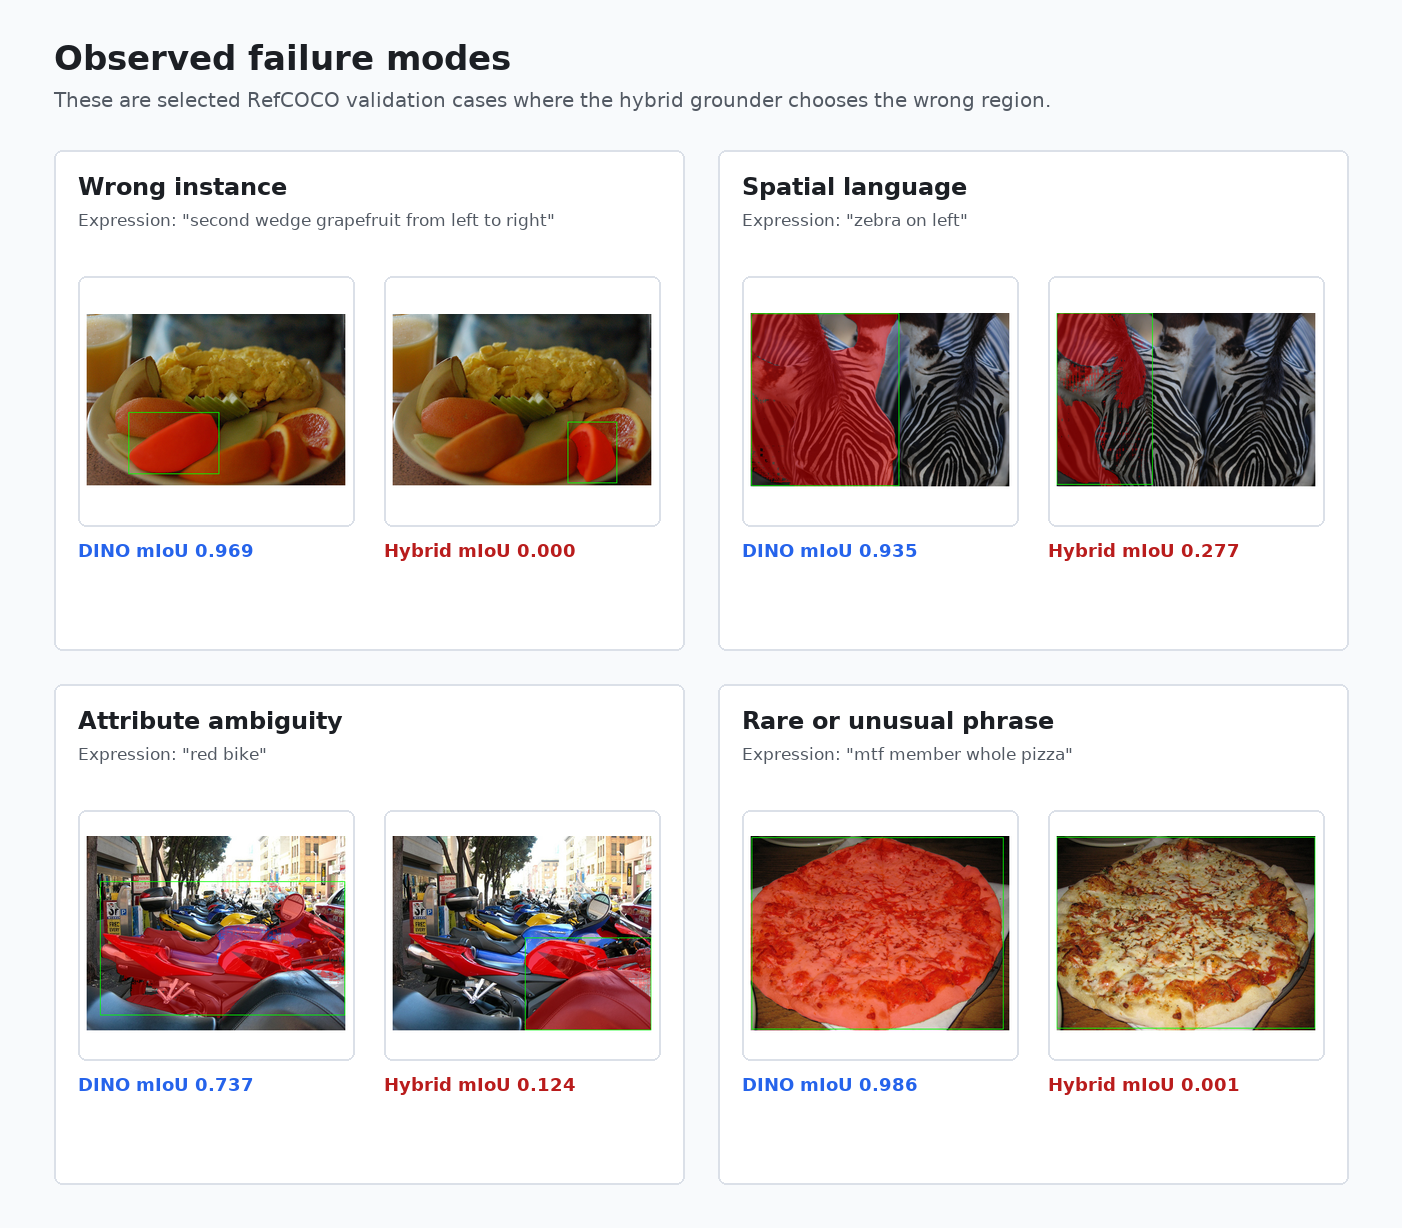
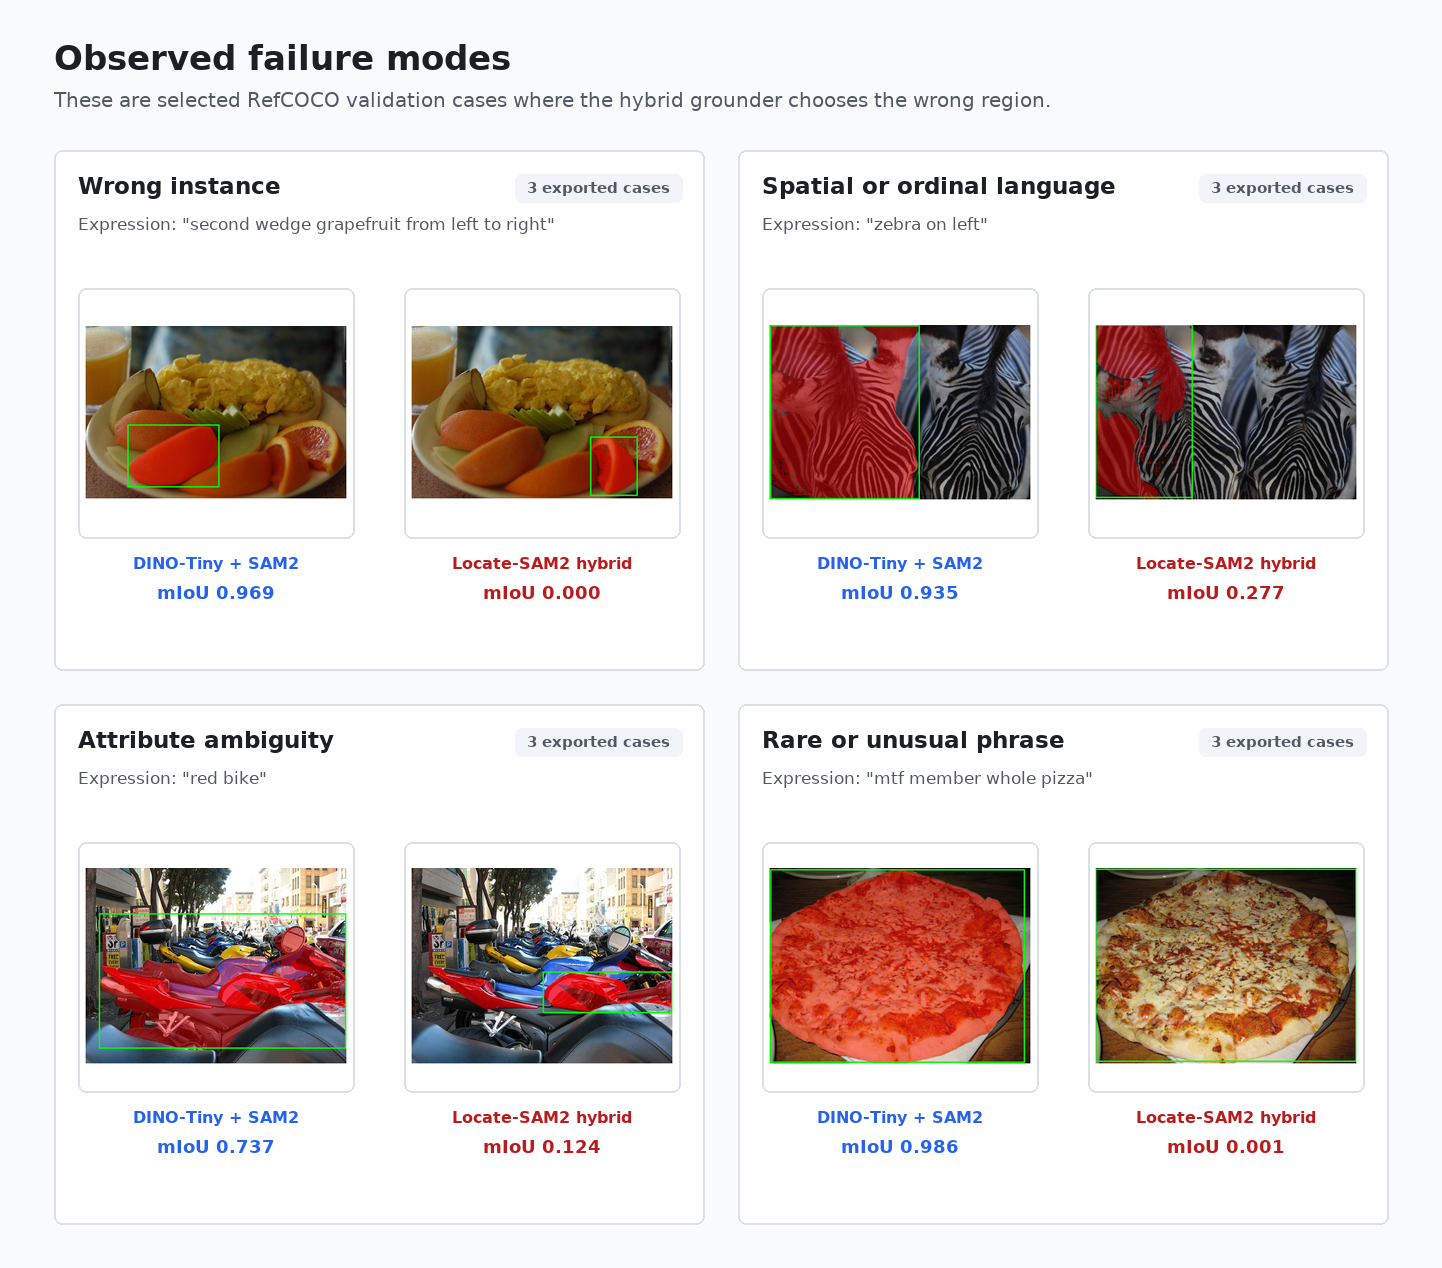
Polish README qualitative panels

diff --git a/scripts/build_readme_assets.py b/scripts/build_readme_assets.py
@@ -54,6 +54,18 @@ def draw_wrapped(
     return y
 
 
+def draw_centered(
+    draw: ImageDraw.ImageDraw,
+    center_x: int,
+    y: int,
+    text: str,
+    fnt: ImageFont.FreeTypeFont,
+    fill: tuple[int, int, int],
+) -> None:
+    width, _ = text_size(draw, text, fnt)
+    draw.text((center_x - width // 2, y), text, font=fnt, fill=fill)
+
+
 def fit_image(path: Path, size: tuple[int, int]) -> Image.Image:
     img = Image.open(path).convert("RGB")
     return ImageOps.contain(img, size, Image.Resampling.LANCZOS)
@@ -136,12 +148,8 @@ def build_main_examples() -> None:
         dino = f"Tiny mIoU {m['dino_miou']:.3f}"
         ours = f"Hybrid mIoU {m['ours_miou']:.3f}"
         metric_y = image_y + frame_h + 16
-        dino_w, _ = text_size(draw, dino, font(18, True))
-        ours_w, _ = text_size(draw, ours, font(18, True))
-        dino_x = margin + col_w + (col_w - dino_w) // 2
-        ours_x = margin + 2 * col_w + (col_w - ours_w) // 2
-        draw.text((dino_x, metric_y), dino, font=font(18, True), fill=RED)
-        draw.text((ours_x, metric_y), ours, font=font(18, True), fill=GREEN)
+        draw_centered(draw, margin + col_w + col_w // 2, metric_y, dino, font(18, True), RED)
+        draw_centered(draw, margin + 2 * col_w + col_w // 2, metric_y, ours, font(18, True), GREEN)
         y += row_h
 
     OUT.mkdir(parents=True, exist_ok=True)
@@ -150,12 +158,12 @@ def build_main_examples() -> None:
 
 def build_failure_taxonomy() -> None:
     cases = [
-        ("fail_wrong_instance_ref20398", "Wrong instance"),
-        ("fail_spatial_ref5750", "Spatial language"),
-        ("fail_attribute_ref18360", "Attribute ambiguity"),
-        ("fail_rare_or_long_ref36776", "Rare or unusual phrase"),
+        ("fail_wrong_instance_ref20398", "Wrong instance", "3 exported cases"),
+        ("fail_spatial_ref5750", "Spatial or ordinal language", "3 exported cases"),
+        ("fail_attribute_ref18360", "Attribute ambiguity", "3 exported cases"),
+        ("fail_rare_or_long_ref36776", "Rare or unusual phrase", "3 exported cases"),
     ]
-    card_w, card_h = 630, 500
+    card_w, card_h = 650, 520
     margin, gap = 54, 34
     width = margin * 2 + 2 * card_w + gap
     height = 150 + 2 * card_h + gap + 44
@@ -170,36 +178,44 @@ def build_failure_taxonomy() -> None:
         fill=MUTED,
     )
 
-    for i, (case, title) in enumerate(cases):
+    for i, (case, title, count_label) in enumerate(cases):
         row, col = divmod(i, 2)
         x = margin + col * (card_w + gap)
         y = 150 + row * (card_h + gap)
         draw.rounded_rectangle((x, y, x + card_w, y + card_h), radius=8, fill=WHITE, outline=GRID, width=2)
 
         m = meta(case)
-        draw.text((x + 24, y + 22), title, font=font(24, True), fill=INK)
-        draw_wrapped(draw, (x + 24, y + 60), f"Expression: \"{m['query']}\"", font(17), MUTED, 58)
+        draw.text((x + 24, y + 22), title, font=font(23, True), fill=INK)
+        count_w, _ = text_size(draw, count_label, font(15, True))
+        draw.rounded_rectangle((x + card_w - count_w - 46, y + 24, x + card_w - 22, y + 52), radius=7, fill=(241, 245, 249))
+        draw.text((x + card_w - count_w - 34, y + 29), count_label, font=font(15, True), fill=MUTED)
+        draw_wrapped(draw, (x + 24, y + 64), f"Expression: \"{m['query']}\"", font(17), MUTED, 60)
 
         img_w, img_h = 276, 250
-        y_img = y + 126
+        y_img = y + 138
         dino = fit_image(FIGURES / case / "dino_overlay.png", (img_w - 12, img_h - 12))
         ours = fit_image(FIGURES / case / "ours_overlay.png", (img_w - 12, img_h - 12))
-        paste_framed(canvas, dino, (x + 24, y_img), (img_w, img_h))
-        paste_framed(canvas, ours, (x + 330, y_img), (img_w, img_h))
-        draw.text((x + 24, y_img + img_h + 14), f"DINO mIoU {m['dino_miou']:.3f}", font=font(18, True), fill=BLUE)
-        draw.text((x + 330, y_img + img_h + 14), f"Hybrid mIoU {m['ours_miou']:.3f}", font=font(18, True), fill=RED)
+        dino_x, ours_x = x + 24, x + 350
+        paste_framed(canvas, dino, (dino_x, y_img), (img_w, img_h))
+        paste_framed(canvas, ours, (ours_x, y_img), (img_w, img_h))
+        draw_centered(draw, dino_x + img_w // 2, y_img + img_h + 16, "DINO-Tiny + SAM2", font(16, True), BLUE)
+        draw_centered(draw, ours_x + img_w // 2, y_img + img_h + 16, "Locate-SAM2 hybrid", font(16, True), RED)
+        draw_centered(draw, dino_x + img_w // 2, y_img + img_h + 44, f"mIoU {m['dino_miou']:.3f}", font(18, True), BLUE)
+        draw_centered(draw, ours_x + img_w // 2, y_img + img_h + 44, f"mIoU {m['ours_miou']:.3f}", font(18, True), RED)
 
     canvas.save(OUT / "readme_failure_taxonomy.png", quality=95)
 
 
 def build_hallucination_probe() -> None:
-    case = "img510591_neg8763"
+    with (FIGURES / "hallucination_probe" / "metadata.json").open() as f:
+        m = json.load(f)
+    rows = [r for r in m["rows"] if r.get("emitted_mask")]
+    preferred = next((r for r in rows if r["case_id"] == "img510591_neg8763"), None)
+    row = preferred or max(rows, key=lambda r: r["sam_mask_score"])
+    case = row["case_id"]
     base = FIGURES / "hallucination_probe" / case
     prompt = (base / "query.txt").read_text().strip()
     gt_prompt = (base / "gt_query.txt").read_text().strip()
-    with (FIGURES / "hallucination_probe" / "metadata.json").open() as f:
-        m = json.load(f)
-    row = next(r for r in m["rows"] if r["case_id"] == case)
 
     width, height = 1320, 660
     margin, gap = 54, 36
@@ -238,11 +254,13 @@ def build_hallucination_probe() -> None:
         MUTED,
         58,
     )
-    draw.text(
-        (margin + frame_w + gap, y_caption + 10),
-        f"Mask emitted; SAM score {row['sam_mask_score']:.3f}. Probe emission rate: {m['mask_emission_rate'] * 100:.1f}%.",
-        font=font(18, True),
-        fill=RED,
+    draw_centered(
+        draw,
+        margin + frame_w + gap + frame_w // 2,
+        y_caption + 10,
+        f"Mask emitted; SAM score {row['sam_mask_score']:.3f}; emission rate {m['mask_emission_rate'] * 100:.1f}%.",
+        font(18, True),
+        RED,
     )
 
     canvas.save(OUT / "readme_hallucination_probe.png", quality=95)

diff --git a/README.md b/README.md
@@ -52,6 +52,15 @@ The examples below are from RefCOCO validation. Green boxes are grounder predict
 
 DINO-Base is the primary quantitative baseline in the result tables below. The qualitative panel uses DINO-Tiny because those per-case overlays were exported with the manuscript figures.
 
+Exported qualitative coverage:
+
+| Export group | Count | Location |
+|--------------|------:|----------|
+| Fixed manuscript cases | 4 | [`research_paper/figures/`](research_paper/figures/) |
+| Failure taxonomy | 12 | [`research_paper/figures/fail_*`](research_paper/figures/) |
+| Hallucination probe cases | 33 | [`research_paper/figures/hallucination_probe/`](research_paper/figures/hallucination_probe/) |
+| README composites | 3 | [`docs/assets/`](docs/assets/) |
+
 <p align="center">
   <img src="docs/assets/readme_refcoco_examples.png" alt="RefCOCO qualitative examples comparing input images, DINO-Tiny plus SAM2, and Locate-SAM2 hybrid" width="1000">
 </p>